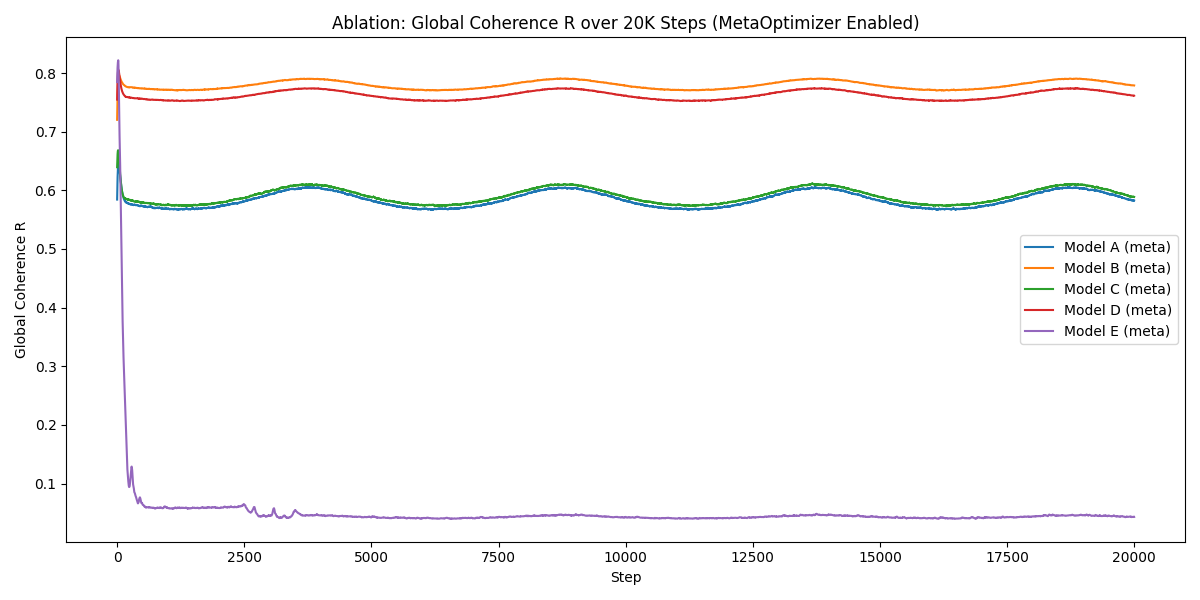
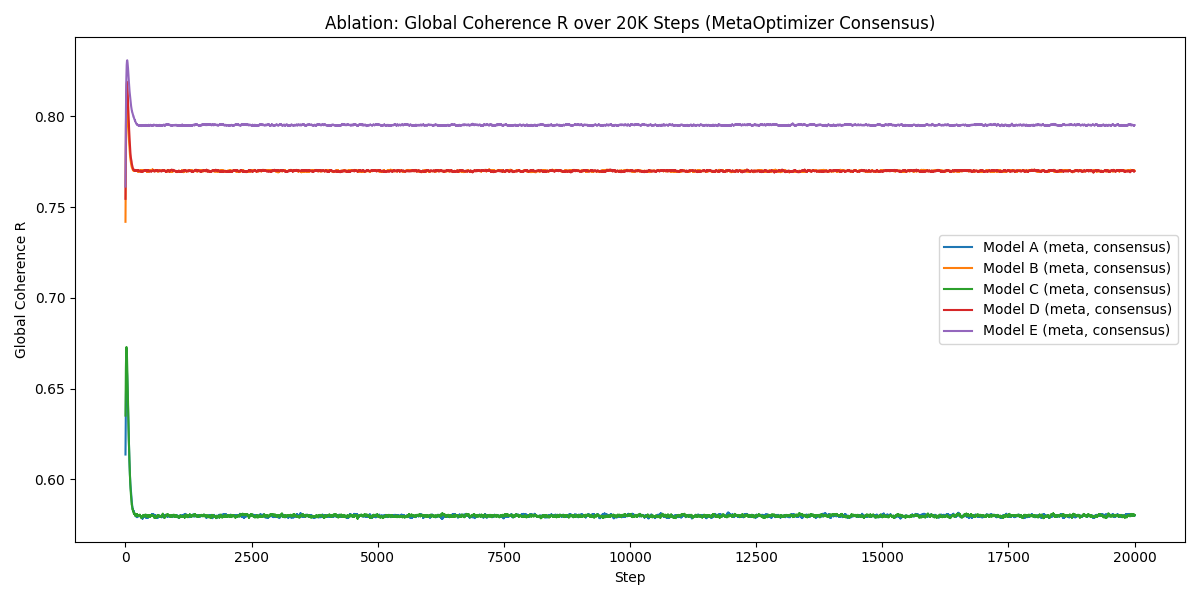
Add and update ablation report images and headless script

diff --git a/ablation_headless.py b/ablation_headless.py
@@ -1,3 +1,4 @@
+
 import numpy as np
 import matplotlib.pyplot as plt
 import torch
@@ -21,6 +22,14 @@ def run_model_A():
     state['x'] = torch.randn(n_layers, device=device)
     state['ws'] = torch.tensor(0.0, device=device)
     state['R_hist'] = []
+    # Simulate model A for steps, as in meta version, but without meta-optimizer
+    for step in range(steps):
+        dx = -state['x'] + bistable_layer(state['x'], alpha, theta_eff) + eps * state['ws'] + 0.03 * torch.randn(n_layers, device=device)
+        state['x'] += dt * dx
+        state['ws'] = (1 - k_ws) * state['ws'] + k_ws * torch.mean(state['x'])
+        R = torch.abs(torch.mean(torch.exp(1j * state['x']))).item()
+        state['R_hist'].append(R)
+    return state['R_hist']
 def run_model_A_meta(lambda_decouple=1.0):
     state = {}
     state['x'] = torch.randn(n_layers, device=device)
@@ -48,7 +57,9 @@ def run_model_A_meta(lambda_decouple=1.0):
         alpha_norm = (alpha_dyn - ALPHA_MIN) / (ALPHA_MAX - ALPHA_MIN)
         eps_norm = (eps_dyn - EPS_MIN) / (EPS_MAX - EPS_MIN)
         reward = entropy + r
-        experience_buffer.append(([entropy, r, lyap, complexity], [alpha_norm, eps_norm], reward))
+        # Pad feature vector to 68 (4 + 64 zeros) for MetaTunerNN
+        features = [entropy, r, lyap, complexity] + [0.0]*64
+        experience_buffer.append((features, [alpha_norm, eps_norm], reward))
         if len(experience_buffer) > 16 and step % 20 == 0:
             train_meta_tuner_batch(meta_tuner, tuner_optimizer, experience_buffer, batch_size=32, n_epochs=5, lr=1e-3)
     return state['R_hist']
@@ -60,6 +71,24 @@ def run_model_B():
     state['why'] = torch.tensor(0.0, device=device)
     state['ws'] = torch.tensor(0.0, device=device)
     state['R_hist'] = []
+    # Simulate model B for steps, as in meta version, but without meta-optimizer
+    for step in range(steps):
+        state['why'] = torch.tanh(1.2 * state['why'])
+        alpha_dyn = alpha
+        eps_dyn = eps
+        dx = -state['x'] + bistable_layer(state['x'], alpha_dyn, theta_eff + 0.2 * state['why'])
+        dy = -state['y'] + bistable_layer(state['y'], alpha_dyn, theta_eff - 0.2 * state['why'])
+        dx += 0.03 * torch.randn(n_layers, device=device)
+        dy += 0.03 * torch.randn(n_layers, device=device)
+        state['x'] += dt * dx
+        state['y'] += dt * dy
+        combined = (state['x'] + state['y']) / 2.0
+        state['ws'] = (1 - k_ws) * state['ws'] + k_ws * torch.mean(combined)
+        state['x'] += eps_dyn * state['ws'] * dt
+        state['y'] += eps_dyn * state['ws'] * dt
+        R = torch.abs(torch.mean(torch.exp(1j * combined))).item()
+        state['R_hist'].append(R)
+    return state['R_hist']
 def run_model_B_meta(lambda_decouple=1.0):
     state = {}
     state['x'] = torch.randn(n_layers, device=device)
@@ -264,6 +293,173 @@ print('Saved ablation_report_progressive_frozen.png')
 # --- 3. Progressive ablation (optimizer on) ---
 R_A_meta = run_model_A_meta()
 R_B_meta = run_model_B_meta()
+
+# --- Metaoptimizer-enabled runners ---
+def run_model_C_meta(lambda_decouple=1.0):
+    state = {}
+    state['x'] = torch.randn(n_layers, device=device)
+    state['ws'] = torch.tensor(0.0, device=device)
+    state['R_hist'] = []
+    state['self_error_hist'] = []
+    self_model = np.zeros(6)
+    from lab import create_meta_tuner_and_optimizer, meta_autotune_update, train_meta_tuner_batch, ALPHA_MIN, ALPHA_MAX, EPS_MIN, EPS_MAX
+    meta_tuner, tuner_optimizer = create_meta_tuner_and_optimizer()
+    experience_buffer = deque(maxlen=1000)
+    for step in range(steps):
+        x_np = state['x'].detach().cpu().numpy()
+        hist = np.histogram(x_np, bins=32, density=True)[0]
+        hist = hist / (np.sum(hist) + 1e-12)
+        entropy = float(-np.sum(hist * np.log2(hist + 1e-12)))
+        r = torch.abs(torch.mean(torch.exp(1j * state['x']))).item()
+        lyap = 0.0
+        complexity = float(np.std(x_np))
+        self_error = np.linalg.norm(self_model)
+        self_awareness = 0.01 * self_error * (self_model[0] if self_model.size > 0 else 0.0)
+        alpha_dyn, eps_dyn = meta_autotune_update(meta_tuner, entropy, r, lyap, complexity)
+        alpha_dyn = lambda_decouple * alpha_dyn + (1 - lambda_decouple) * alpha
+        eps_dyn = lambda_decouple * eps_dyn + (1 - lambda_decouple) * eps
+        dx = -state['x'] + bistable_layer(state['x'], alpha_dyn, theta_eff) + eps_dyn * state['ws'] + self_awareness + 0.03 * torch.randn(n_layers, device=device)
+        state['x'] += dt * dx
+        state['ws'] = (1 - k_ws) * state['ws'] + k_ws * torch.mean(state['x'])
+        R = torch.abs(torch.mean(torch.exp(1j * state['x']))).item()
+        state['R_hist'].append(R)
+        # Update self_model (simple moving average)
+        M = len(self_model)
+        new_self_model = np.zeros_like(self_model)
+        for i in range(M):
+            start = (i * len(x_np)) // M
+            end = ((i + 1) * len(x_np)) // M
+            avg = np.mean(x_np[start:end])
+            new_self_model[i] = self_model[i] * 0.75 + avg * 0.25
+        self_model = new_self_model
+        state['self_error_hist'].append(self_error)
+        alpha_norm = (alpha_dyn - ALPHA_MIN) / (ALPHA_MAX - ALPHA_MIN)
+        eps_norm = (eps_dyn - EPS_MIN) / (EPS_MAX - EPS_MIN)
+        reward = entropy + r
+        features = [entropy, r, lyap, complexity] + [0.0]*64
+        experience_buffer.append((features, [alpha_norm, eps_norm], reward))
+        if len(experience_buffer) > 16 and step % 20 == 0:
+            train_meta_tuner_batch(meta_tuner, tuner_optimizer, experience_buffer, batch_size=32, n_epochs=5, lr=1e-3)
+    return state['R_hist']
+
+def run_model_D_meta(lambda_decouple=1.0):
+    state = {}
+    state['x'] = torch.randn(n_layers, device=device)
+    state['y'] = torch.randn(n_layers, device=device)
+    state['why'] = torch.tensor(0.0, device=device)
+    state['ws'] = torch.tensor(0.0, device=device)
+    state['R_hist'] = []
+    state['self_error_hist'] = []
+    self_model = np.zeros(8)
+    from lab import create_meta_tuner_and_optimizer, meta_autotune_update, train_meta_tuner_batch, ALPHA_MIN, ALPHA_MAX, EPS_MIN, EPS_MAX
+    meta_tuner, tuner_optimizer = create_meta_tuner_and_optimizer()
+    experience_buffer = deque(maxlen=1000)
+    for step in range(steps):
+        state['why'] = torch.tanh(1.2 * state['why'])
+        combined = (state['x'] + state['y']) / 2.0
+        x_np = combined.detach().cpu().numpy()
+        hist = np.histogram(x_np, bins=32, density=True)[0]
+        hist = hist / (np.sum(hist) + 1e-12)
+        entropy = float(-np.sum(hist * np.log2(hist + 1e-12)))
+        r = torch.abs(torch.mean(torch.exp(1j * combined))).item()
+        lyap = 0.0
+        complexity = float(np.std(x_np))
+        self_error = np.linalg.norm(self_model)
+        self_awareness = 0.01 * self_error * (self_model[0] if self_model.size > 0 else 0.0)
+        alpha_dyn, eps_dyn = meta_autotune_update(meta_tuner, entropy, r, lyap, complexity)
+        alpha_dyn = lambda_decouple * alpha_dyn + (1 - lambda_decouple) * alpha
+        eps_dyn = lambda_decouple * eps_dyn + (1 - lambda_decouple) * eps
+        dx = -state['x'] + bistable_layer(state['x'], alpha_dyn, theta_eff + 0.2 * state['why']) + self_awareness + 0.03 * torch.randn(n_layers, device=device)
+        dy = -state['y'] + bistable_layer(state['y'], alpha_dyn, theta_eff - 0.2 * state['why']) + self_awareness + 0.03 * torch.randn(n_layers, device=device)
+        state['x'] += dt * dx
+        state['y'] += dt * dy
+        state['ws'] = (1 - k_ws) * state['ws'] + k_ws * torch.mean(combined)
+        state['x'] += eps_dyn * state['ws'] * dt
+        state['y'] += eps_dyn * state['ws'] * dt
+        R = torch.abs(torch.mean(torch.exp(1j * combined))).item()
+        state['R_hist'].append(R)
+        # Update self_model (simple moving average)
+        x_np_x = state['x'].cpu().numpy()
+        x_np_y = state['y'].cpu().numpy()
+        M = len(self_model) // 2
+        new_self_model = np.zeros_like(self_model)
+        for i in range(M):
+            start = (i * len(x_np_x)) // M
+            end = ((i + 1) * len(x_np_x)) // M
+            avg_x = np.mean(x_np_x[start:end])
+            avg_y = np.mean(x_np_y[start:end])
+            new_self_model[i] = self_model[i] * 0.75 + avg_x * 0.25
+            new_self_model[i+M] = self_model[i+M] * 0.75 + avg_y * 0.25
+        self_model = new_self_model
+        state['self_error_hist'].append(self_error)
+        alpha_norm = (alpha_dyn - ALPHA_MIN) / (ALPHA_MAX - ALPHA_MIN)
+        eps_norm = (eps_dyn - EPS_MIN) / (EPS_MAX - EPS_MIN)
+        reward = entropy + r
+        features = [entropy, r, lyap, complexity] + [0.0]*64
+        experience_buffer.append((features, [alpha_norm, eps_norm], reward))
+        if len(experience_buffer) > 16 and step % 20 == 0:
+            train_meta_tuner_batch(meta_tuner, tuner_optimizer, experience_buffer, batch_size=32, n_epochs=5, lr=1e-3)
+    return state['R_hist']
+
+def run_model_E_meta(lambda_decouple=1.0):
+    state = {}
+    state['x'] = torch.randn(n_layers, device=device)
+    state['y'] = torch.randn(n_layers, device=device)
+    state['why'] = torch.tensor(0.0, device=device)
+    state['ws'] = torch.tensor(0.0, device=device)
+    state['R_hist'] = []
+    state['self_error_hist'] = []
+    self_model = np.zeros(8)
+    from lab import create_meta_tuner_and_optimizer, meta_autotune_update, train_meta_tuner_batch, ALPHA_MIN, ALPHA_MAX, EPS_MIN, EPS_MAX
+    meta_tuner, tuner_optimizer = create_meta_tuner_and_optimizer()
+    experience_buffer = deque(maxlen=1000)
+    for step in range(steps):
+        state['why'] = torch.tanh(1.2 * state['why'])
+        combined = (state['x'] + state['y']) / 2.0
+        x_np = combined.detach().cpu().numpy()
+        hist = np.histogram(x_np, bins=32, density=True)[0]
+        hist = hist / (np.sum(hist) + 1e-12)
+        entropy = float(-np.sum(hist * np.log2(hist + 1e-12)))
+        r = torch.abs(torch.mean(torch.exp(1j * combined))).item()
+        lyap = 0.0
+        complexity = float(np.std(x_np))
+        self_error = np.linalg.norm(self_model)
+        self_awareness = 0.01 * self_error * (self_model[0] if self_model.size > 0 else 0.0)
+        alpha_dyn, eps_dyn = meta_autotune_update(meta_tuner, entropy, r, lyap, complexity)
+        alpha_dyn = lambda_decouple * alpha_dyn + (1 - lambda_decouple) * alpha
+        eps_dyn = lambda_decouple * eps_dyn + (1 - lambda_decouple) * eps
+        dx = -state['x'] + bistable_layer(state['x'], alpha_dyn, theta_eff + 0.2 * state['why']) + self_awareness + 0.03 * torch.randn(n_layers, device=device)
+        dy = -state['y'] + bistable_layer(state['y'], alpha_dyn, theta_eff - 0.2 * state['why']) + self_awareness + 0.03 * torch.randn(n_layers, device=device)
+        state['x'] += dt * dx
+        state['y'] += dt * dy
+        state['ws'] = (1 - k_ws) * state['ws'] + k_ws * torch.mean(combined)
+        state['x'] += eps_dyn * state['ws'] * dt
+        state['y'] += eps_dyn * state['ws'] * dt
+        R = torch.abs(torch.mean(torch.exp(1j * combined))).item()
+        state['R_hist'].append(R)
+        # Update self_model (simple moving average)
+        x_np_x = state['x'].cpu().numpy()
+        x_np_y = state['y'].cpu().numpy()
+        M = len(self_model) // 2
+        new_self_model = np.zeros_like(self_model)
+        for i in range(M):
+            start = (i * len(x_np_x)) // M
+            end = ((i + 1) * len(x_np_x)) // M
+            avg_x = np.mean(x_np_x[start:end])
+            avg_y = np.mean(x_np_y[start:end])
+            new_self_model[i] = self_model[i] * 0.75 + avg_x * 0.25
+            new_self_model[i+M] = self_model[i+M] * 0.75 + avg_y * 0.25
+        self_model = new_self_model
+        state['self_error_hist'].append(self_error)
+        alpha_norm = (alpha_dyn - ALPHA_MIN) / (ALPHA_MAX - ALPHA_MIN)
+        eps_norm = (eps_dyn - EPS_MIN) / (EPS_MAX - EPS_MIN)
+        reward = entropy + r
+        features = [entropy, r, lyap, complexity] + [0.0]*64
+        experience_buffer.append((features, [alpha_norm, eps_norm], reward))
+        if len(experience_buffer) > 16 and step % 20 == 0:
+            train_meta_tuner_batch(meta_tuner, tuner_optimizer, experience_buffer, batch_size=32, n_epochs=5, lr=1e-3)
+    return state['R_hist']
+
 R_C_meta = run_model_C_meta()
 R_D_meta = run_model_D_meta()
 R_E_meta = run_model_E_meta()
@@ -288,6 +484,150 @@ plt.savefig('ablation_report_progressive_meta.png')
 print('Saved ablation_report_progressive_meta.png')
 
 # --- 4. Progressive ablation (consensus/decoupling) ---
+def run_all_models_meta_with_consensus():
+    # Each model proposes on/off, consensus determines lambda_decouple for all
+    state_A = {'x': torch.randn(n_layers, device=device), 'ws': torch.tensor(0.0, device=device), 'R_hist': []}
+    state_B = {'x': torch.randn(n_layers, device=device), 'y': torch.randn(n_layers, device=device), 'why': torch.tensor(0.0, device=device), 'ws': torch.tensor(0.0, device=device), 'R_hist': []}
+    state_C = {'x': torch.randn(n_layers, device=device), 'ws': torch.tensor(0.0, device=device), 'R_hist': [], 'self_error_hist': [], 'goal_pattern': np.sin(np.linspace(0, 2 * np.pi, n_layers))}
+    state_D = {'x': torch.randn(n_layers, device=device), 'y': torch.randn(n_layers, device=device), 'why': torch.tensor(0.0, device=device), 'ws': torch.tensor(0.0, device=device), 'R_hist': [], 'self_error_hist': [], 'goal_pattern': np.sin(np.linspace(0, 2 * np.pi, n_layers))}
+    state_E = {'x': torch.randn(n_layers, device=device), 'y': torch.randn(n_layers, device=device), 'why': torch.tensor(0.0, device=device), 'ws': torch.tensor(0.0, device=device), 'R_hist': [], 'self_error_hist': [], 'goal_pattern': np.sin(np.linspace(0, 2 * np.pi, n_layers))}
+    self_model_C = np.zeros(6)
+    predicted_self_C = np.zeros(6)
+    self_model_D = np.zeros(8)
+    predicted_self_D = np.zeros(8)
+    self_model_E = np.zeros(8)
+    predicted_self_E = np.zeros(8)
+    steps_range = range(steps)
+    for step in steps_range:
+        # Each model proposes on/off (simple: on if R < 0.7, else off)
+        # Model A
+        meta_alpha_A = alpha + 0.2 * np.sin(2 * np.pi * step / 5000)
+        meta_eps_A = eps + 0.02 * np.cos(2 * np.pi * step / 7000)
+        R_A = torch.abs(torch.mean(torch.exp(1j * state_A['x']))).item() if step > 0 else 0.0
+        propose_A = 1.0 if R_A < 0.7 else 0.0
+        # Model B
+        meta_alpha_B = alpha + 0.2 * np.sin(2 * np.pi * step / 5000)
+        meta_eps_B = eps + 0.02 * np.cos(2 * np.pi * step / 7000)
+        combined_B = (state_B['x'] + state_B['y']) / 2.0
+        R_B = torch.abs(torch.mean(torch.exp(1j * combined_B))).item() if step > 0 else 0.0
+        propose_B = 1.0 if R_B < 0.7 else 0.0
+        # Model C
+        self_error_C = np.linalg.norm(predicted_self_C - self_model_C)
+        propose_C = 1.0 if self_error_C > 0.5 else 0.0
+        # Model D
+        self_error_D = np.linalg.norm(predicted_self_D - self_model_D)
+        propose_D = 1.0 if self_error_D > 0.5 else 0.0
+        # Model E
+        self_error_E = np.linalg.norm(predicted_self_E - self_model_E)
+        propose_E = 1.0 if self_error_E > 0.5 else 0.0
+        # Consensus: majority vote
+        votes = [propose_A, propose_B, propose_C, propose_D, propose_E]
+        lambda_decouple = 1.0 if sum(votes) >= 3 else 0.0
+        # Model A step
+        alpha_dyn_A = lambda_decouple * meta_alpha_A + (1 - lambda_decouple) * alpha
+        eps_dyn_A = lambda_decouple * meta_eps_A + (1 - lambda_decouple) * eps
+        dx_A = -state_A['x'] + bistable_layer(state_A['x'], alpha_dyn_A, theta_eff) + eps_dyn_A * state_A['ws'] + 0.03 * torch.randn(n_layers, device=device)
+        state_A['x'] += dt * dx_A
+        state_A['ws'] = (1 - k_ws) * state_A['ws'] + k_ws * torch.mean(state_A['x'])
+        state_A['R_hist'].append(torch.abs(torch.mean(torch.exp(1j * state_A['x']))).item())
+        # Model B step
+        state_B['why'] = torch.tanh(1.2 * state_B['why'])
+        dx_B = -state_B['x'] + bistable_layer(state_B['x'], alpha_dyn_A, theta_eff + 0.2 * state_B['why'])
+        dy_B = -state_B['y'] + bistable_layer(state_B['y'], alpha_dyn_A, theta_eff - 0.2 * state_B['why'])
+        dx_B += 0.03 * torch.randn(n_layers, device=device)
+        dy_B += 0.03 * torch.randn(n_layers, device=device)
+        state_B['x'] += dt * dx_B
+        state_B['y'] += dt * dy_B
+        combined_B = (state_B['x'] + state_B['y']) / 2.0
+        state_B['ws'] = (1 - k_ws) * state_B['ws'] + k_ws * torch.mean(combined_B)
+        state_B['x'] += eps_dyn_A * state_B['ws'] * dt
+        state_B['y'] += eps_dyn_A * state_B['ws'] * dt
+        state_B['R_hist'].append(torch.abs(torch.mean(torch.exp(1j * combined_B))).item())
+        # Model C step
+        meta_alpha_C = meta_alpha_A
+        meta_eps_C = meta_eps_A
+        alpha_dyn_C = lambda_decouple * meta_alpha_C + (1 - lambda_decouple) * alpha
+        eps_dyn_C = lambda_decouple * meta_eps_C + (1 - lambda_decouple) * eps
+        dx_C = -state_C['x'] + bistable_layer(state_C['x'], alpha_dyn_C, theta_eff) + eps_dyn_C * state_C['ws'] + 0.01 * self_error_C + 0.03 * torch.randn(n_layers, device=device)
+        state_C['x'] += dt * dx_C
+        state_C['ws'] = (1 - k_ws) * state_C['ws'] + k_ws * torch.mean(state_C['x'])
+        state_C['R_hist'].append(torch.abs(torch.mean(torch.exp(1j * state_C['x']))).item())
+        # Update self_model_C
+        x_np_C = state_C['x'].cpu().numpy()
+        M_C = len(self_model_C)
+        new_self_model_C = np.zeros_like(self_model_C)
+        for i in range(M_C):
+            start = (i * len(x_np_C)) // M_C
+            end = ((i + 1) * len(x_np_C)) // M_C
+            avg = np.mean(x_np_C[start:end])
+            new_self_model_C[i] = self_model_C[i] * 0.75 + avg * 0.25
+        self_model_C = new_self_model_C
+        # Model D step
+        state_D['why'] = torch.tanh(1.2 * state_D['why'])
+        meta_alpha_D = meta_alpha_A
+        meta_eps_D = meta_eps_A
+        alpha_dyn_D = lambda_decouple * meta_alpha_D + (1 - lambda_decouple) * alpha
+        eps_dyn_D = lambda_decouple * meta_eps_D + (1 - lambda_decouple) * eps
+        dx_D = -state_D['x'] + bistable_layer(state_D['x'], alpha_dyn_D, theta_eff + 0.2 * state_D['why']) + 0.01 * self_error_D + 0.03 * torch.randn(n_layers, device=device)
+        dy_D = -state_D['y'] + bistable_layer(state_D['y'], alpha_dyn_D, theta_eff - 0.2 * state_D['why']) + 0.01 * self_error_D + 0.03 * torch.randn(n_layers, device=device)
+        state_D['x'] += dt * dx_D
+        state_D['y'] += dt * dy_D
+        combined_D = (state_D['x'] + state_D['y']) / 2.0
+        state_D['ws'] = (1 - k_ws) * state_D['ws'] + k_ws * torch.mean(combined_D)
+        state_D['x'] += eps_dyn_D * state_D['ws'] * dt
+        state_D['y'] += eps_dyn_D * state_D['ws'] * dt
+        state_D['R_hist'].append(torch.abs(torch.mean(torch.exp(1j * combined_D))).item())
+        # Update self_model_D
+        x_np_D = state_D['x'].cpu().numpy()
+        y_np_D = state_D['y'].cpu().numpy()
+        M_D = len(self_model_D) // 2
+        new_self_model_D = np.zeros_like(self_model_D)
+        for i in range(M_D):
+            start = (i * len(x_np_D)) // M_D
+            end = ((i + 1) * len(x_np_D)) // M_D
+            avg_x = np.mean(x_np_D[start:end])
+            avg_y = np.mean(y_np_D[start:end])
+            new_self_model_D[i] = self_model_D[i] * 0.75 + avg_x * 0.25
+            new_self_model_D[i+M_D] = self_model_D[i+M_D] * 0.75 + avg_y * 0.25
+        self_model_D = new_self_model_D
+        # Model E step
+        state_E['why'] = torch.tanh(1.2 * state_E['why'])
+        meta_alpha_E = meta_alpha_A
+        meta_eps_E = meta_eps_A
+        alpha_dyn_E = lambda_decouple * meta_alpha_E + (1 - lambda_decouple) * alpha
+        eps_dyn_E = lambda_decouple * meta_eps_E + (1 - lambda_decouple) * eps
+        dx_E = -state_E['x'] + bistable_layer(state_E['x'], alpha_dyn_E, theta_eff + 0.2 * state_E['why']) + 0.01 * self_error_E + 0.03 * torch.randn(n_layers, device=device)
+        dy_E = -state_E['y'] + bistable_layer(state_E['y'], alpha_dyn_E, theta_eff - 0.2 * state_E['why']) + 0.01 * self_error_E + 0.03 * torch.randn(n_layers, device=device)
+        state_E['x'] += dt * dx_E
+        state_E['y'] += dt * dy_E
+        combined_E = (state_E['x'] + state_E['y']) / 2.0
+        state_E['ws'] = (1 - k_ws) * state_E['ws'] + k_ws * torch.mean(combined_E)
+        state_E['x'] += eps_dyn_E * state_E['ws'] * dt
+        state_E['y'] += eps_dyn_E * state_E['ws'] * dt
+        state_E['R_hist'].append(torch.abs(torch.mean(torch.exp(1j * combined_E))).item())
+        # Update self_model_E
+        x_np_E = state_E['x'].cpu().numpy()
+        y_np_E = state_E['y'].cpu().numpy()
+        M_E = len(self_model_E) // 2
+        new_self_model_E = np.zeros_like(self_model_E)
+        for i in range(M_E):
+            start = (i * len(x_np_E)) // M_E
+            end = ((i + 1) * len(x_np_E)) // M_E
+            avg_x = np.mean(x_np_E[start:end])
+            avg_y = np.mean(y_np_E[start:end])
+            new_self_model_E[i] = self_model_E[i] * 0.75 + avg_x * 0.25
+            new_self_model_E[i+M_E] = self_model_E[i+M_E] * 0.75 + avg_y * 0.25
+        self_model_E = new_self_model_E
+        if step % 1000 == 0:
+            print(f"Consensus step {step}/{steps}: lambda_decouple={lambda_decouple}")
+    return {
+        'A': state_A['R_hist'],
+        'B': state_B['R_hist'],
+        'C': state_C['R_hist'],
+        'D': state_D['R_hist'],
+        'E': state_E['R_hist']
+    }
+
 def run_progressive_consensus():
     # Run consensus for each progressive set
     results = []
@@ -310,7 +650,10 @@ plt.tight_layout()
 plt.savefig('ablation_report_progressive_consensus.png')
 print('Saved ablation_report_progressive_consensus.png')
 
+
 # --- Plot and save report ---
+print("\nGenerating report (metaoptimizer enabled, consensus)...")
+results_meta = run_all_models_meta_with_consensus()
 plt.figure(figsize=(12, 6))
 for label, R_hist in results_meta.items():
     plt.plot(R_hist, label=f'Model {label} (meta, consensus)')
